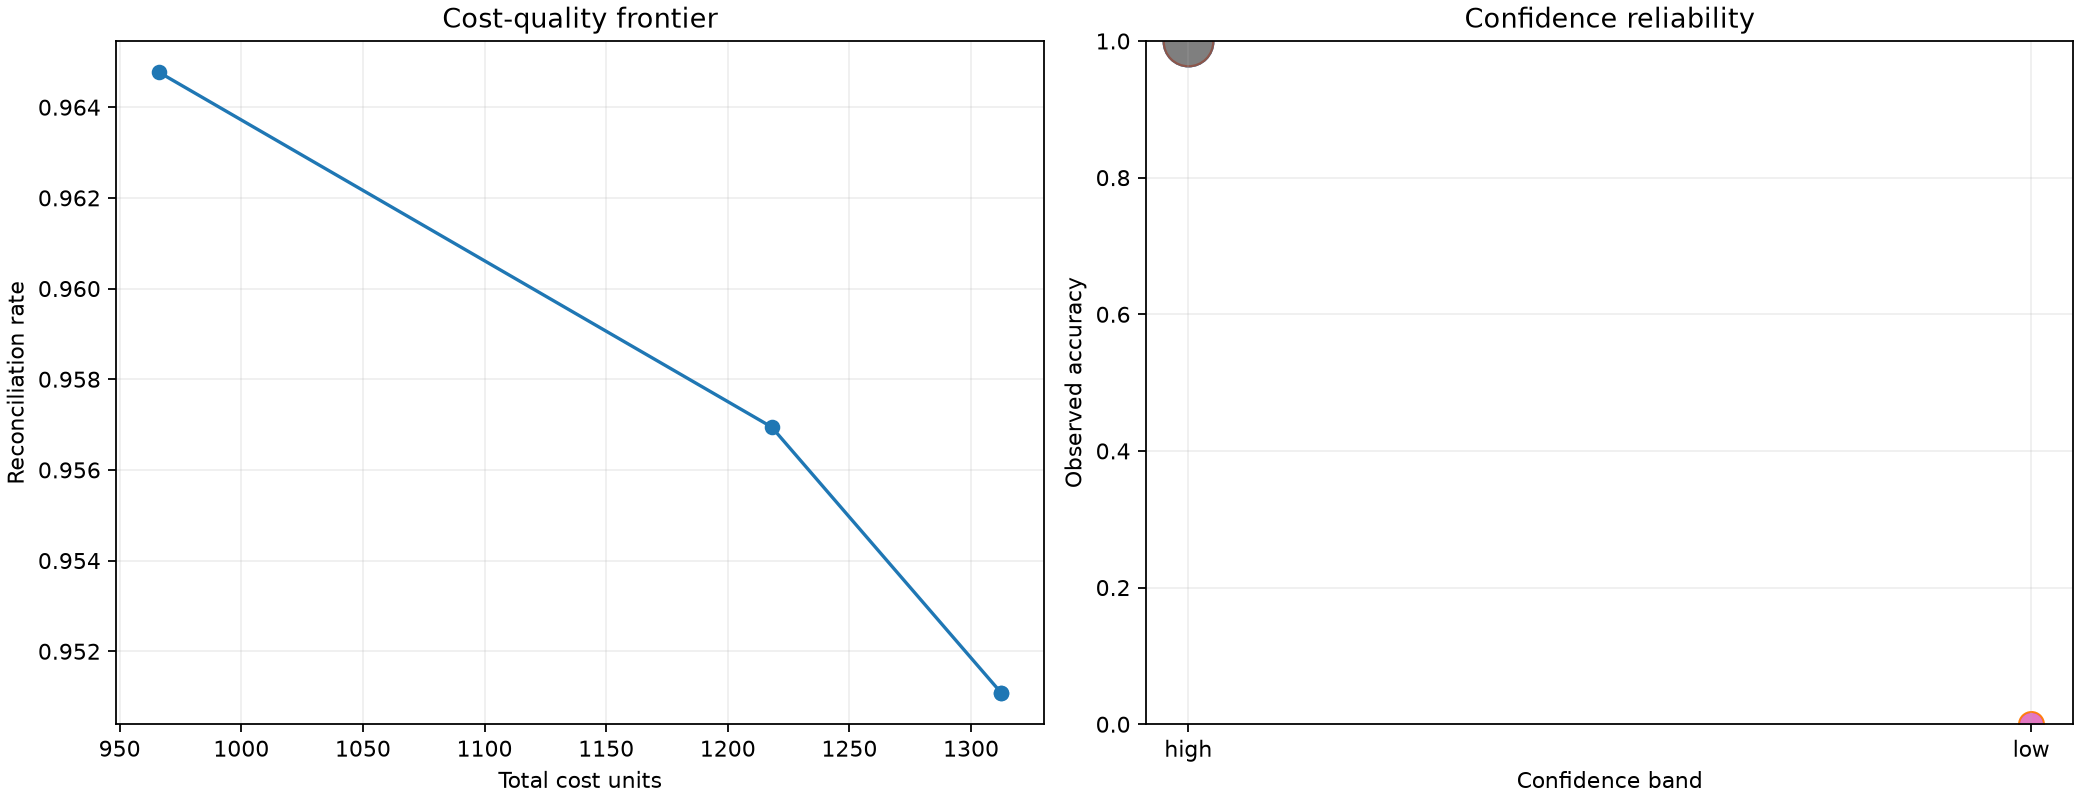
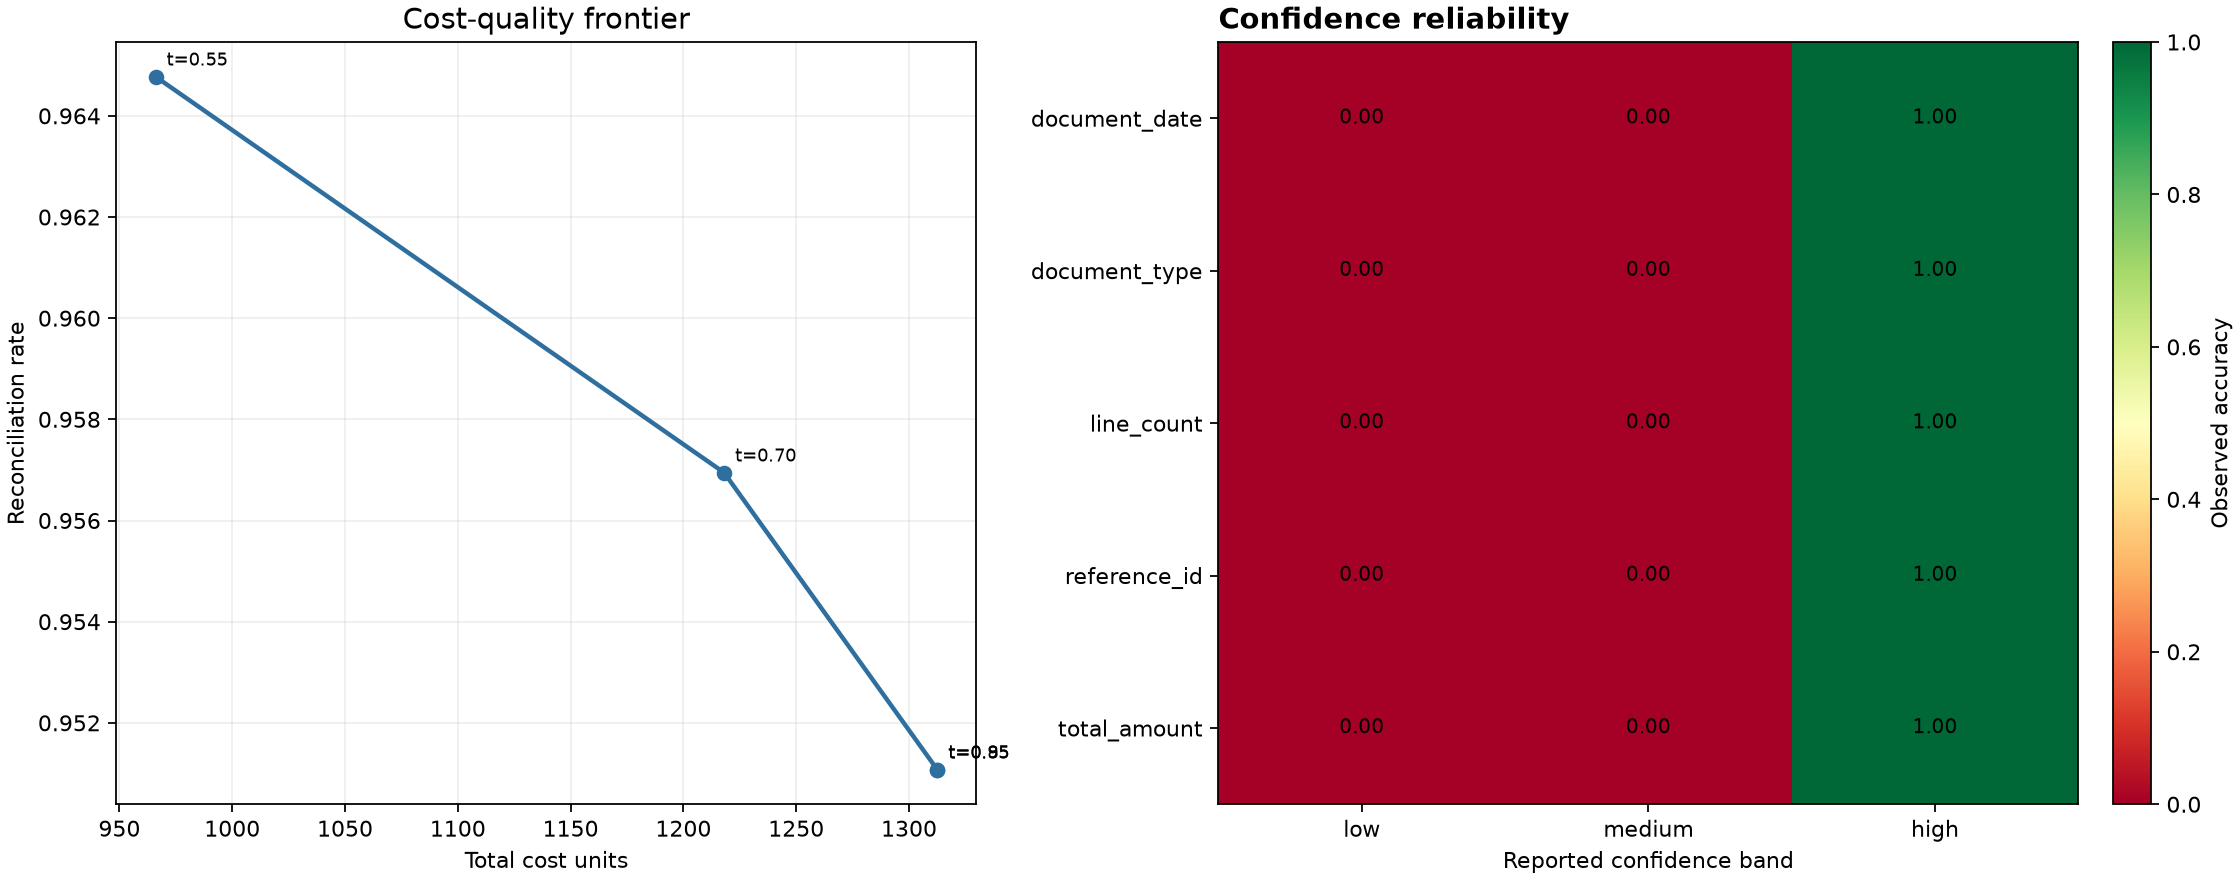
Document optional cloud extractor adapters

diff --git a/document_ai/reporting.py b/document_ai/reporting.py
@@ -62,36 +62,75 @@ def build_report(
     truth, raw_extracted = make_batch(config, corruption_rate, scenario="mixed")
     repaired_extracted = repair_documents(raw_extracted)
     confidence_table = pd.DataFrame(confidence_metrics(truth, repaired_extracted))
-    figure, axes = plt.subplots(2, 2, figsize=(13, 9), constrained_layout=True)
-    results.plot.bar(x="scenario", y=["date_accuracy", "reference_accuracy", "amount_accuracy"], ax=axes[0, 0])
-    axes[0, 0].set_ylim(0, 1)
-    axes[0, 0].set_title("Field accuracy by corruption scenario")
-    axes[0, 0].tick_params(axis="x", rotation=30)
-    results.plot.bar(x="scenario", y=["accept_rate", "review_rate", "reject_rate"], ax=axes[0, 1])
-    axes[0, 1].set_ylim(0, 1)
-    axes[0, 1].set_title("Quality routing by scenario")
-    axes[0, 1].tick_params(axis="x", rotation=30)
-    results.plot.line(x="mean_confidence", y="amount_accuracy", marker="o", ax=axes[1, 0])
-    axes[1, 0].set_xlim(0, 1)
-    axes[1, 0].set_ylim(0, 1)
-    axes[1, 0].set_title("Confidence versus amount accuracy")
-    results.plot.bar(x="scenario", y="duplicate_rate", ax=axes[1, 1], color="#c44e52")
-    axes[1, 1].set_ylim(0, 1)
-    axes[1, 1].set_title("Duplicate rate")
-    axes[1, 1].tick_params(axis="x", rotation=30)
+    plt.rcParams.update({"font.size": 10, "axes.titlesize": 13, "axes.labelsize": 10})
+    colors = {"date_accuracy": "#2f6f9f", "reference_accuracy": "#e07a3f", "amount_accuracy": "#4c956c"}
+    scenarios = results["scenario"].str.replace("_", " ").str.title()
+    figure, axes = plt.subplots(2, 2, figsize=(15, 10), constrained_layout=True)
+
+    y = range(len(results))
+    for offset, field in zip((-0.22, 0, 0.22), colors):
+        bars = axes[0, 0].barh([value + offset for value in y], results[field], height=0.2, color=colors[field], label=field.replace("_", " ").title())
+        axes[0, 0].bar_label(bars, fmt="%.2f", padding=3, fontsize=8)
+    axes[0, 0].set_yticks(list(y), scenarios)
+    axes[0, 0].set_xlim(0, 1.12)
+    axes[0, 0].set_title("Field accuracy by failure scenario", loc="left", fontweight="bold")
+    axes[0, 0].set_xlabel("Exact / tolerance-aware accuracy")
+    axes[0, 0].legend(frameon=False, ncol=3, fontsize=8)
+    axes[0, 0].grid(axis="x", alpha=0.2)
+
+    left = pd.Series(0.0, index=results.index)
+    routing_colors = [("accept_rate", "#4c956c"), ("review_rate", "#e6a23c"), ("reject_rate", "#c94c4c")]
+    for field, color in routing_colors:
+        bars = axes[0, 1].barh(scenarios, results[field], left=left, color=color, label=field.replace("_rate", "").title())
+        left += results[field]
+    axes[0, 1].set_xlim(0, 1)
+    axes[0, 1].set_title("Quality routing outcome", loc="left", fontweight="bold")
+    axes[0, 1].set_xlabel("Share of extracted rows")
+    axes[0, 1].legend(frameon=False, ncol=3, fontsize=8)
+    axes[0, 1].grid(axis="x", alpha=0.2)
+
+    comparison_y = range(len(results))
+    confidence_bars = axes[1, 0].barh([value - 0.14 for value in comparison_y], results["mean_confidence"], height=0.25, color="#345995", label="reported confidence")
+    accuracy_bars = axes[1, 0].barh([value + 0.14 for value in comparison_y], results["amount_accuracy"], height=0.25, color="#e07a3f", label="observed amount accuracy")
+    axes[1, 0].bar_label(confidence_bars, fmt="%.2f", padding=3, fontsize=8)
+    axes[1, 0].bar_label(accuracy_bars, fmt="%.2f", padding=3, fontsize=8)
+    axes[1, 0].set_yticks(list(comparison_y), scenarios)
+    axes[1, 0].set_xlim(0.7, 1.08)
+    axes[1, 0].set_title("Confidence versus observed accuracy", loc="left", fontweight="bold")
+    axes[1, 0].set_xlabel("Rate")
+    axes[1, 0].legend(frameon=False, fontsize=8)
+    axes[1, 0].grid(axis="x", alpha=0.2)
+
+    bars = axes[1, 1].barh(scenarios, results["duplicate_rate"], color="#c94c4c")
+    axes[1, 1].bar_label(bars, fmt="%.3f", padding=3, fontsize=8)
+    axes[1, 1].set_xlim(0, max(0.05, results["duplicate_rate"].max() * 1.35))
+    axes[1, 1].set_title("Duplicate exposure", loc="left", fontweight="bold")
+    axes[1, 1].set_xlabel("Duplicate row share")
+    axes[1, 1].grid(axis="x", alpha=0.2)
+
+    for axis in axes.flat:
+        axis.spines[["top", "right"]].set_visible(False)
     figure.savefig(output_dir / "scenario_matrix.png", dpi=160)
     plt.close(figure)
 
-    figure, axes = plt.subplots(1, 2, figsize=(13, 5), constrained_layout=True)
-    axes[0].plot(cost_quality["total_cost_units"], cost_quality["reconciliation_rate"], "o-")
+    figure, axes = plt.subplots(1, 2, figsize=(14, 5.5), constrained_layout=True)
+    axes[0].plot(cost_quality["total_cost_units"], cost_quality["reconciliation_rate"], "o-", color="#2f6f9f", linewidth=2)
+    for _, row in cost_quality.iterrows():
+        axes[0].annotate(f"t={row['fallback_threshold']:.2f}", (row["total_cost_units"], row["reconciliation_rate"]), xytext=(5, 5), textcoords="offset points", fontsize=8)
     axes[0].set(xlabel="Total cost units", ylabel="Reconciliation rate", title="Cost-quality frontier")
     axes[0].grid(alpha=0.2)
-    for _, row in confidence_table.iterrows():
-        if row["rows"]:
-            axes[1].scatter(row["confidence_band"], row["accuracy"], s=max(20, row["rows"]), label=row["field"])
-    axes[1].set_ylim(0, 1)
-    axes[1].set(title="Confidence reliability", xlabel="Confidence band", ylabel="Observed accuracy")
-    axes[1].grid(alpha=0.2)
+    heatmap = confidence_table.pivot(index="field", columns="confidence_band", values="accuracy").reindex(columns=["low", "medium", "high"])
+    image = axes[1].imshow(heatmap.fillna(0).to_numpy(), cmap="RdYlGn", vmin=0, vmax=1, aspect="auto")
+    axes[1].set_xticks(range(len(heatmap.columns)), heatmap.columns)
+    axes[1].set_yticks(range(len(heatmap.index)), heatmap.index)
+    for row_index in range(len(heatmap.index)):
+        for col_index in range(len(heatmap.columns)):
+            value = heatmap.iloc[row_index, col_index]
+            if pd.notna(value):
+                axes[1].text(col_index, row_index, f"{value:.2f}", ha="center", va="center", fontsize=9)
+    axes[1].set_title("Confidence reliability", loc="left", fontweight="bold")
+    axes[1].set_xlabel("Reported confidence band")
+    figure.colorbar(image, ax=axes[1], fraction=0.046, pad=0.04, label="Observed accuracy")
     figure.savefig(output_dir / "operational_frontier.png", dpi=160)
     plt.close(figure)
 

diff --git a/document_ai/cloud_adapters.py b/document_ai/cloud_adapters.py
@@ -1,0 +1,69 @@
+"""Optional cloud-provider adapters with dependency injection.
+
+The public project never performs cloud calls by default. Production integrations can
+inject a callable backend after configuring credentials and data governance outside
+this repository. Tests use deterministic mock backends.
+"""
+
+from dataclasses import dataclass
+from typing import Any, Callable
+
+
+@dataclass(frozen=True)
+class ProviderResult:
+    provider: str
+    fields: dict[str, Any]
+    confidence: dict[str, float]
+    pages_seen: int
+    latency_ms: int
+    cost_units: float
+
+
+@dataclass
+class AzureDocumentIntelligenceAdapter:
+    """Adapter boundary for a managed document extraction provider."""
+
+    backend: Callable[[bytes], dict[str, Any]] | None = None
+    provider_name: str = "azure-document-intelligence"
+    latency_ms: int = 180
+    cost_units: float = 1.0
+
+    def extract(self, document_bytes: bytes) -> ProviderResult:
+        if self.backend is None:
+            raise RuntimeError(
+                "Azure adapter is disabled in the public lab; inject a governed backend explicitly."
+            )
+        payload = self.backend(document_bytes)
+        return ProviderResult(
+            provider=self.provider_name,
+            fields=dict(payload.get("fields") or {}),
+            confidence=dict(payload.get("confidence") or {}),
+            pages_seen=int(payload.get("pages_seen") or 0),
+            latency_ms=self.latency_ms,
+            cost_units=self.cost_units,
+        )
+
+
+@dataclass
+class OpenAIVisionFallbackAdapter:
+    """Adapter boundary for a vision-language fallback provider."""
+
+    backend: Callable[[bytes], dict[str, Any]] | None = None
+    provider_name: str = "openai-vision-fallback"
+    latency_ms: int = 950
+    cost_units: float = 4.5
+
+    def extract(self, document_bytes: bytes) -> ProviderResult:
+        if self.backend is None:
+            raise RuntimeError(
+                "Vision fallback is disabled in the public lab; inject a governed backend explicitly."
+            )
+        payload = self.backend(document_bytes)
+        return ProviderResult(
+            provider=self.provider_name,
+            fields=dict(payload.get("fields") or {}),
+            confidence=dict(payload.get("confidence") or {}),
+            pages_seen=int(payload.get("pages_seen") or 0),
+            latency_ms=self.latency_ms,
+            cost_units=self.cost_units,
+        )

diff --git a/tests/test_document_ai.py b/tests/test_document_ai.py
@@ -3,6 +3,7 @@ from fastapi.testclient import TestClient
 from document_ai.api import app
 from document_ai.quality import assess_batch, confidence_metrics, field_metrics
 from document_ai.extractors import FALLBACK_EXTRACTOR, PRIMARY_EXTRACTOR
+from document_ai.cloud_adapters import AzureDocumentIntelligenceAdapter, OpenAIVisionFallbackAdapter
 from document_ai.reporting import run_cost_quality_sweep, run_scenarios
 from document_ai.pipeline import run_cascade
 from document_ai.repair import repair_documents
@@ -76,6 +77,26 @@ def test_cost_quality_sweep_is_reproducible():
     assert len(sweep) == 4
     assert sweep["fallback_rate"].between(0, 1).all()
     assert sweep["total_cost_units"].gt(0).all()
+
+
+def test_cloud_adapters_are_disabled_by_default_and_mockable():
+    payload = lambda _: {
+        "fields": {"document_date": "2025-01-01"},
+        "confidence": {"document_date": 0.93},
+        "pages_seen": 2,
+    }
+    for adapter in (AzureDocumentIntelligenceAdapter(), OpenAIVisionFallbackAdapter()):
+        try:
+            adapter.extract(b"synthetic")
+        except RuntimeError as error:
+            assert "disabled" in str(error)
+        else:
+            raise AssertionError("cloud adapter should be disabled without a backend")
+    result = AzureDocumentIntelligenceAdapter(backend=payload).extract(b"synthetic")
+    fallback = OpenAIVisionFallbackAdapter(backend=payload).extract(b"synthetic")
+    assert result.provider == "azure-document-intelligence"
+    assert fallback.provider == "openai-vision-fallback"
+    assert result.fields["document_date"] == "2025-01-01"
 
 
 def test_all_corruption_scenarios_are_reproducible_and_reportable():

diff --git a/docs/provider-adapters.md b/docs/provider-adapters.md
@@ -1,0 +1,39 @@
+# Provider Adapter Architecture
+
+The production-inspired architecture has two optional cloud boundaries:
+
+```text
+PDF/image bytes
+    |
+    v
+AzureDocumentIntelligenceAdapter  -- quality gate -- accept
+    |                                  |
+    +---------- fallback --------------+
+                                       v
+                         OpenAIVisionFallbackAdapter
+                                       |
+                              repair / reconcile
+                                       |
+                              review or accept
+```
+
+The public lab keeps these adapters disabled by default. They expose the integration contract without requiring credentials, SDK calls, or real documents.
+
+## Why dependency injection
+
+Both adapters accept a `backend` callable. This makes the boundary testable with deterministic fixtures and lets a governed application inject its own SDK client, timeout policy, retry policy, and audit logger.
+
+```python
+from document_ai.cloud_adapters import AzureDocumentIntelligenceAdapter
+
+adapter = AzureDocumentIntelligenceAdapter(
+    backend=lambda payload: {
+        "fields": {"document_date": "2025-01-01"},
+        "confidence": {"document_date": 0.92},
+        "pages_seen": 2,
+    }
+)
+result = adapter.extract(b"synthetic-document-bytes")
+```
+
+The repository intentionally does not embed API keys, endpoints, or production payloads. The adapters are architecture examples, not a request to upload confidential documents to a third party.

diff --git a/README.md b/README.md
@@ -21,6 +21,7 @@ It contains no real documents, organizations, accounts, products, or production 
 - scenario-level Markdown/PNG benchmark report;
 - extractor cascade with fallback, page coverage, reconciliation, latency, and cost metrics;
 - explicit extractor protocol with cost/latency provider profiles;
+- optional Azure Document Intelligence and OpenAI vision fallback adapter boundaries;
 - confidence reliability and cost-quality frontier reports;
 - explicit failure taxonomy;
 - typed FastAPI endpoint;
@@ -57,6 +58,8 @@ Open `reports/REPORT.md` for field accuracy, routing outcomes, confidence analys
 Additional committed artifacts include `reports/operational_frontier.png`, `reports/cost_quality_sweep.json`, `reports/confidence_reliability.json`, and `reports/cascade_summary.json`.
 
 The report also includes the synthetic extractor cascade: the primary stage is cheap and fast, while the fallback stage is slower and more expensive but improves coverage and quality when the primary quality gate fails.
+
+See [provider adapter architecture](docs/provider-adapters.md) for the cloud integration boundary. Cloud calls are disabled by default and tested through dependency injection.
 
 The committed report compares clean, missing-date, date-shift, identifier-typo, amount-noise, duplicate-row, and mixed-failure scenarios.
 
